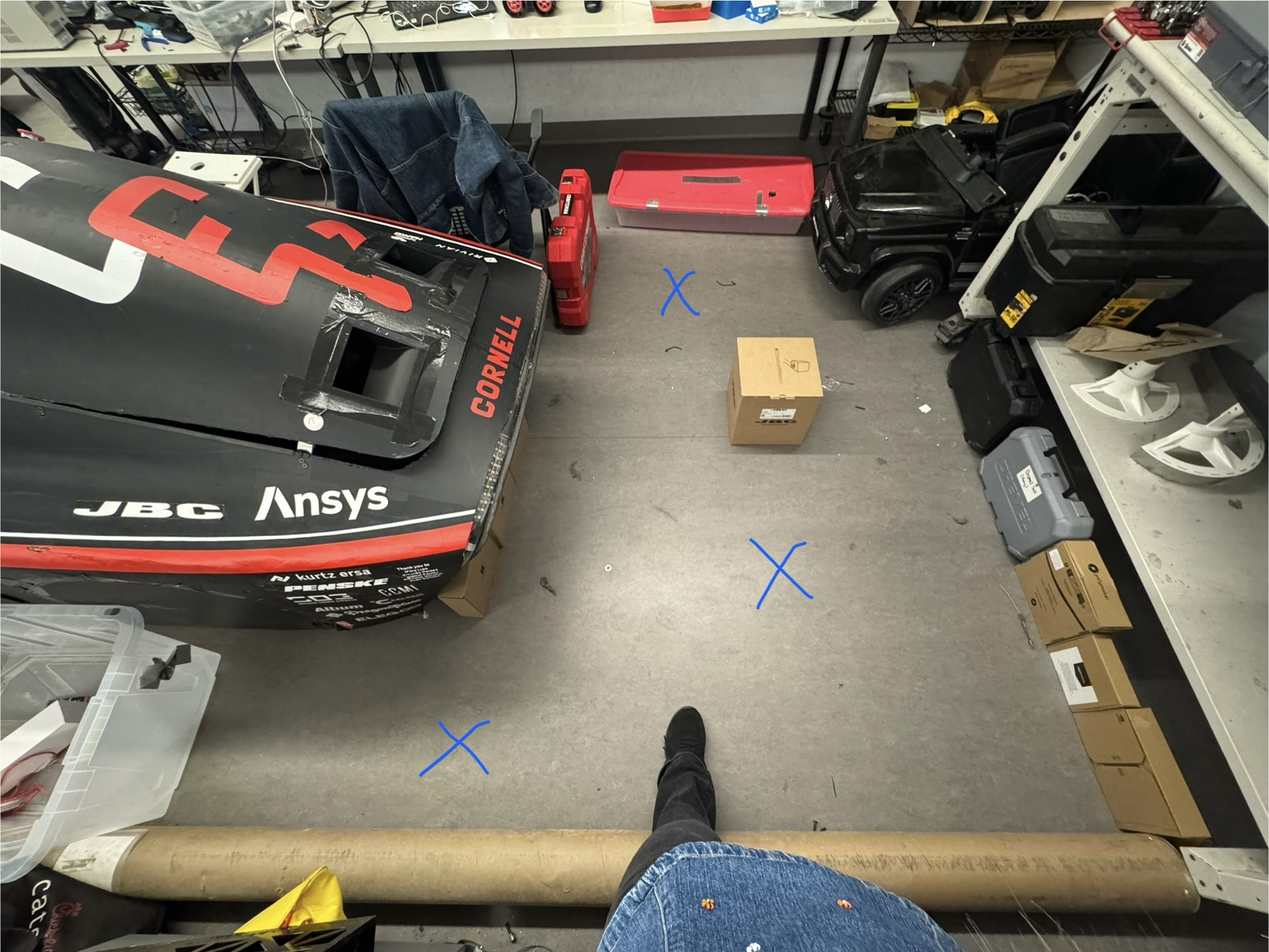
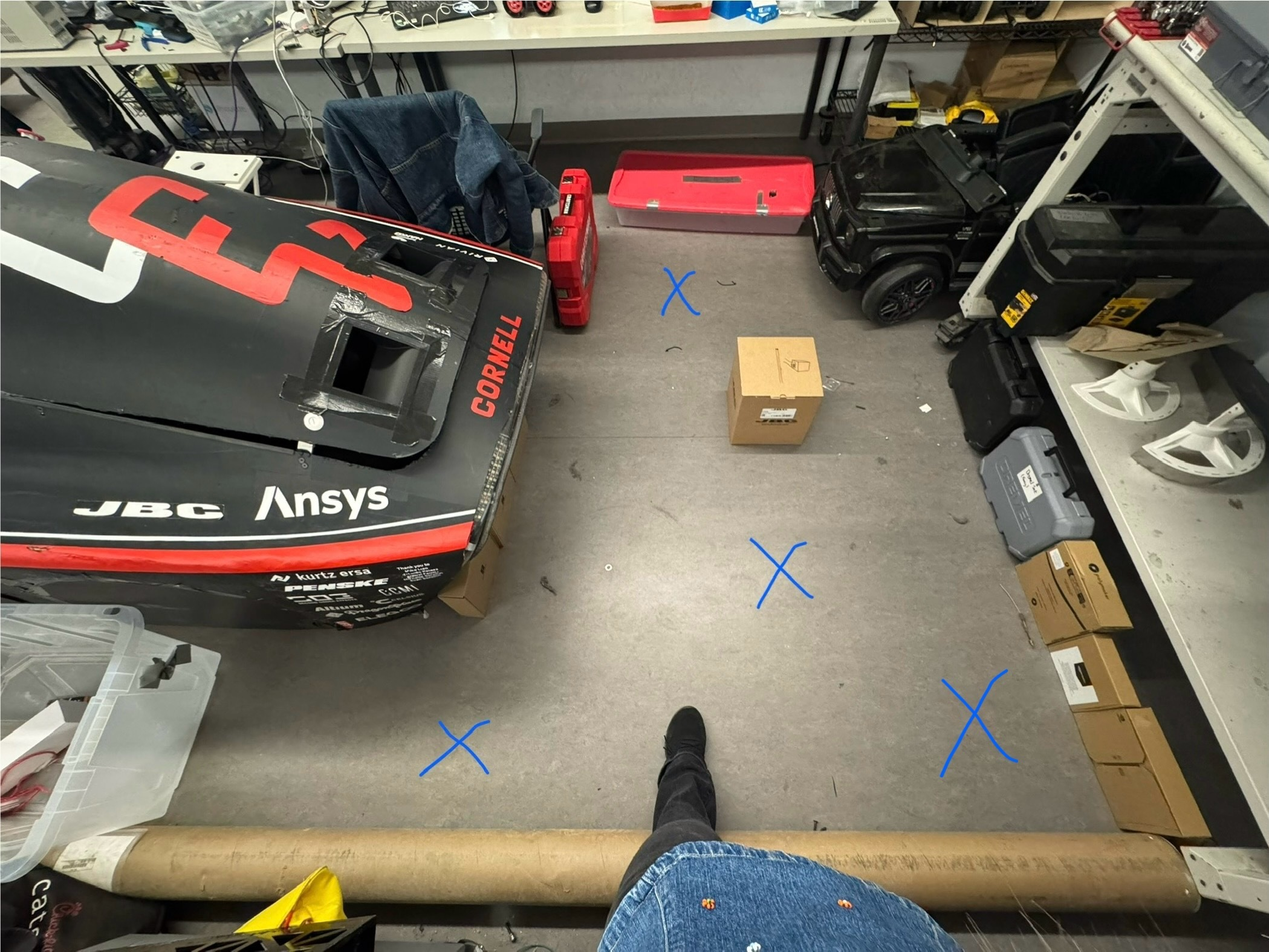
polar plots

diff --git a/lab9.html b/lab9.html
@@ -137,6 +137,8 @@
 
                             <iframe width="560" height="315" src="https://www.youtube.com/embed/EVkx2cRd9Jg" frameborder="0" allowfullscreen></iframe>
                             
+                            <iframe width="560" height="315" src="https://www.youtube.com/embed/DZ_Gab5UGoE" frameborder="0" allowfullscreen></iframe>
+
 
 
                             <p> I plotted the values of yaw for each 24 degree turn over time. I compared it with the target angles of the PID controller and as seen the PID 
@@ -160,9 +162,10 @@
                                 actual position to be 2.14 mm. The average acceptable error between starting and ending position wwas around 22 mm leaving a 1.57 mm average error in position.  </p>
 
                            <p> I would collect data for each mapping on different areas of the ELL "map" in a csv. Due to time constraints I was not able to test on the actual lab map. Below is a photo of 
-                            the "map" I was using in the ELL using points (0,0) which is the cross in the middle, (-3, -2), and (-1, 3). The distance was meausred using the front TOF sensor and the 
+                            the "map" I was using in the ELL using points (0,0) which is the cross in the middle, (-3, -2), (2, -3), and (0, 1). The distance was meausred using the front TOF sensor and the 
                             data was sent via bluetooth after each mapping. The robot started at the same orientation facing front wards. I had a total variable that added the angle the robot stopped 
-                            at the previously recorded stopping angle to account for when the robot did not stop at exactly 24 degrees.  
+                            at the previously recorded stopping angle to account for when the robot did not stop at exactly 24 degrees. I think in some of the runs I was in the middle of the map 
+                            and was a moving obstacle that might have put noise into the data sometimes. 
                            </p>
                         
                            <img src="assets\img\ELLmap.jpg" 
@@ -171,13 +174,26 @@
 
                             <p> With each reading I collected data and put it in a polar coordinate frame plot to ensure the readings made sense. Unfortunately I had some noise which made it 
                                 difficult to determine the exact walls. I had to position the TOF sensor to point more upwards to get the data. Belwo are my coordinate plots as well as plots of my 
-                                TOF distance data over time. 
+                                TOF distance data over time. I think I could have gotten better data if I make the increments smaller. I think the larger increments caused the plots to miss some 
+                                aspects of my map such as the tiny box in the middle that would have caused the distance to be very small for the sensor to sense at certain angles. I did make sure all 
+                                the robots orientations started the same way but I think the noise and the wide turns on the axis made the data a bit hard to cypher. 
                             </p>
 
-                            <img src="assets\img\tofdataovertime.png" 
-                            alt="Lab 2 Pitch" style="width: 400px; height: auto;"/>
-                        
+                            <div class="subheading mb-3"> (0,0) Polar Coordinate Plot</div>
+                            <img src="assets\img\Loc1.png" 
+                            alt="ELLmap" style="width: 400px; height: auto;"/>
 
+                            <div class="subheading mb-3"> (0,1) Polar Coordinate Plot</div>
+                            <img src="assets\img\Loc2.png" 
+                            alt="ELLmap" style="width: 400px; height: auto;"/>
+
+                            <div class="subheading mb-3"> (-3,-2) Polar Coordinate Plot</div>
+                            <img src="assets\img\Loc3.png" 
+                            alt="ELLmap" style="width: 400px; height: auto;"/>
+
+                            <div class="subheading mb-3"> (2,-3) Polar Coordinate Plot</div>
+                            <img src="assets\img\Loc4.png" 
+                            alt="ELLmap" style="width: 400px; height: auto;"/>
 
                         </div>
 
@@ -197,13 +213,20 @@
                             <h3 class="mb-0">Merge and Plot Readings</h3>
                         
                             <p>
-                               Below are some videos of some bloopers of the car when I was attempting to do a flip. 
+                               After getting the data from different parts of the map, I plotted the distances in a global frame using the below transformation 
+                               matrix. I also plotted it all in the polar plot to see how it would all come together. I color coded the data points and set the
+                               matrices up for the coordinate points on the map. I did guestimate the coordinate points when doing it first because this was my own 
+                               map so later I did have to go through trial and error on the coordinates to get a global frame that best represented the map the robot
+                               was in. I just used the TOF sensor on the front of the car and used the best data set that best represented the map to merge. Below 
+                               is my code for one location and the necessary graphs of the merge data. 
 
                             </p>
                             <h3 class="mb-0">Line Based Map</h3>
 
                             <p>
-                                Below are some videos of some bloopers of the car when I was attempting to do a flip. 
+                                After plotting the above graph, I plotted lines that represented the walls of the map. This graph can be shown below. Some errors 
+                                were found in this. I think it might have been because my walls were not that well defined unlike in the lab space and I was walking
+                                around a lot or trying my best to hide from the sensor when I was collecting data. 
  
                              </p>
                                 
